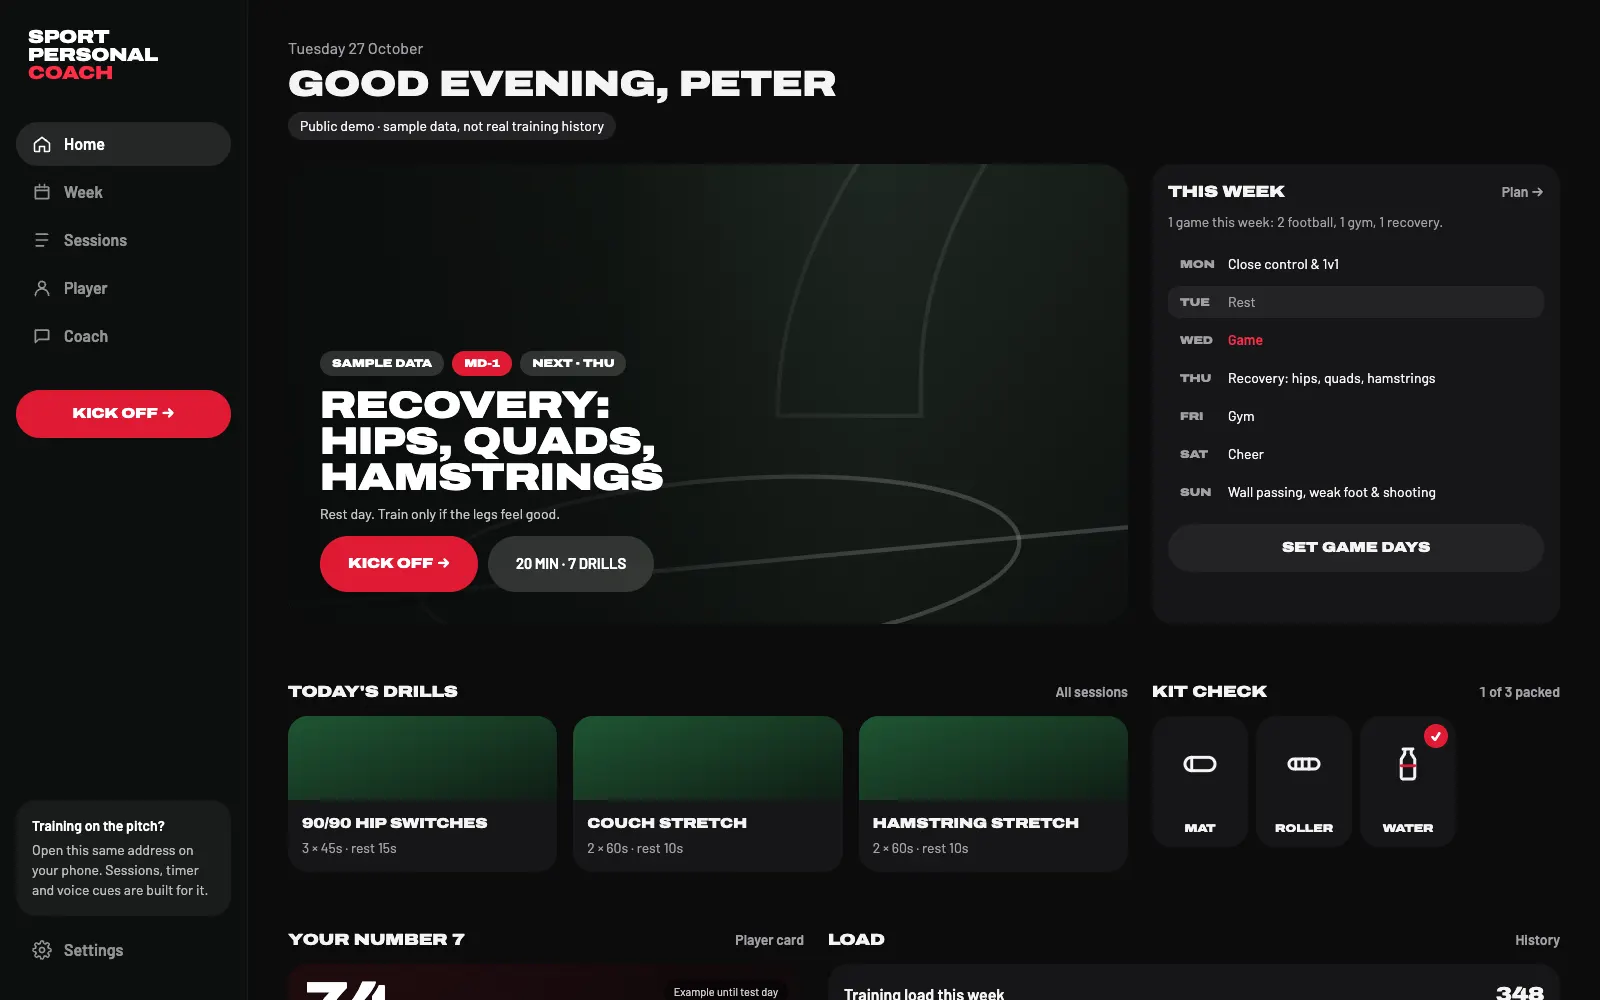
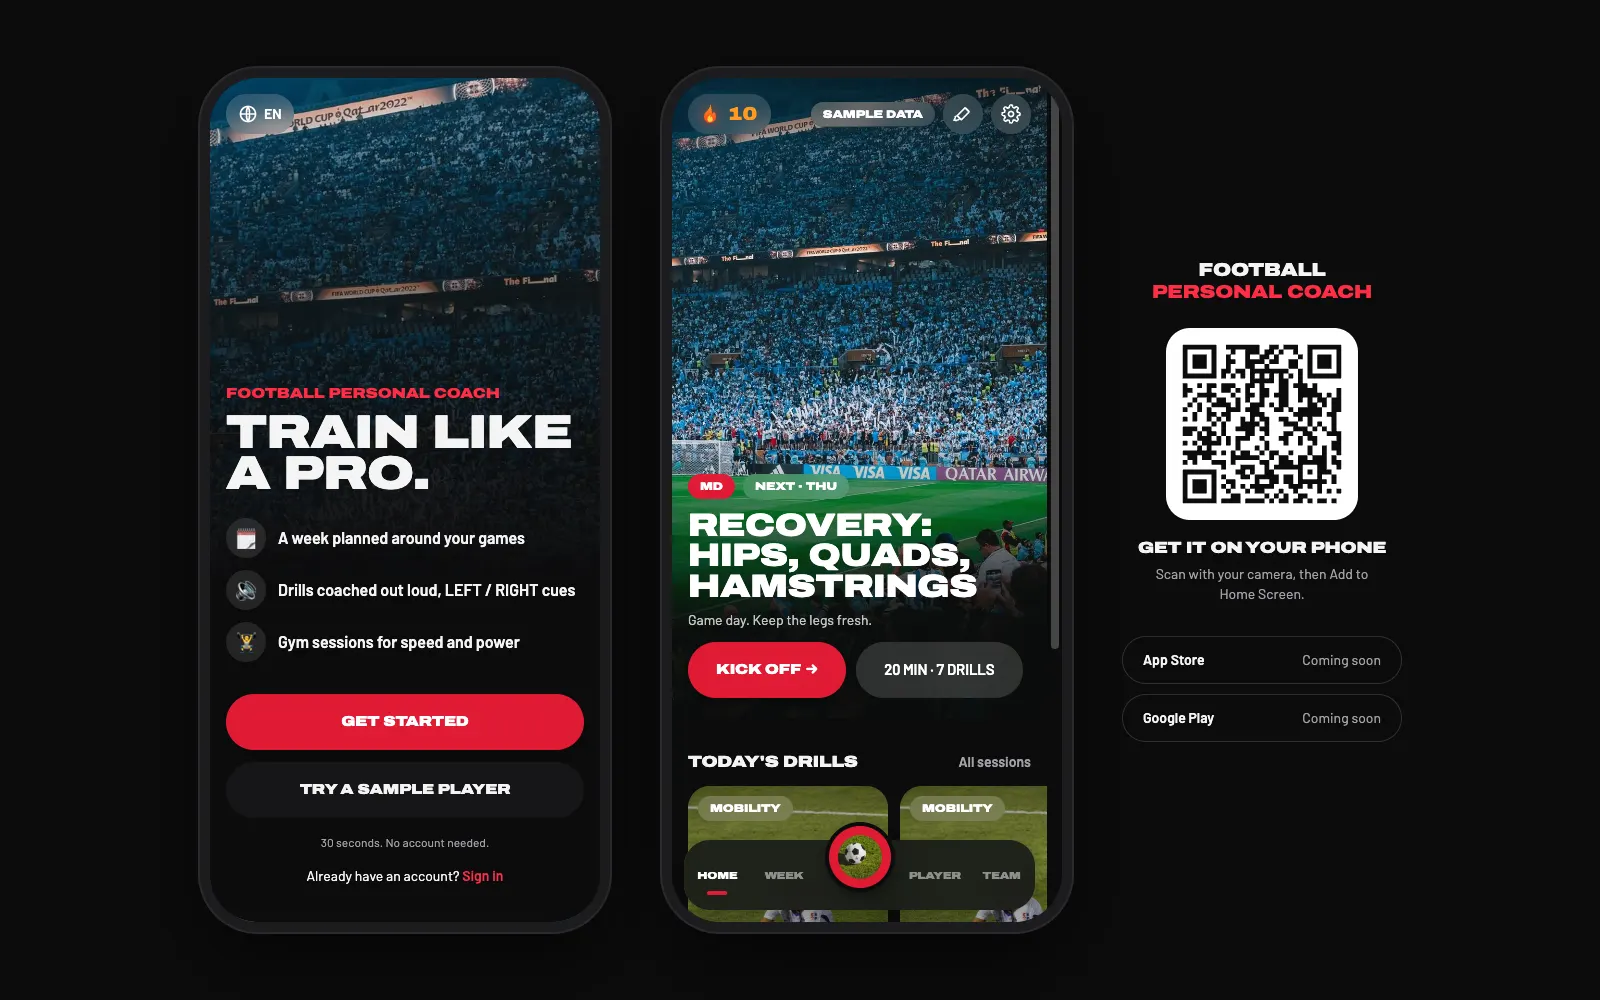
Rename to Soccer Personal Coach: new Cloudflare link, laptop and phone screenshots

diff --git a/src/content.ts b/src/content.ts
@@ -75,13 +75,13 @@ export const featured: Featured[] = [
     status: { kind: 'server', ping: 'https://bumpin-demo.onrender.com/api/health' },
   },
   {
-    name: 'Sport Personal Coach',
-    what: 'Plans my football week around game days and calls random reaction cues in drills',
+    name: 'Soccer Personal Coach',
+    what: 'Plans my soccer week around game days and calls LEFT/RIGHT reaction cues in drills',
     result: 'Solo build, live demo with sample data',
-    url: 'https://sport-coach-demo.duckdns.org',
-    phone: { src: '/img/coach-phone', alt: "Sport Personal Coach on a phone: today's recovery session over a night view of a stadium", width: 1000, height: 2000 },
+    url: 'https://football-personal-coach.ducphu1665.workers.dev/?invite=1',
+    phone: { src: '/img/coach-phone', alt: "Soccer Personal Coach on a phone: today's game-day recovery session with sample data", width: 1000, height: 2000 },
     repo: 'https://github.com/PeterT1665/Workout-Rag-Advisor',
-    shot: shot('coach', 'Sport Personal Coach home screen: the week planned around one game, with today\'s recovery session'),
+    shot: shot('coach', 'Soccer Personal Coach on a laptop: the sign-up screen, the sample player\'s game day, and a QR code to open it on a phone'),
     status: { kind: 'static' },
   },
   {
@@ -121,7 +121,7 @@ export type LibraryRow = { name: string; what: string; stack: string; note: stri
 
 export const library: LibraryRow[] = [
   { name: 'BumpIn', what: 'Festival rider and vendor CRM', stack: 'Python, FastAPI, React', note: '3rd overall, Best Track', url: 'https://bumpin-demo.onrender.com' },
-  { name: 'Sport Personal Coach', what: 'Football training plan built around game days', stack: 'React, TypeScript, FastAPI, PWA', note: 'Solo build, live demo', url: 'https://sport-coach-demo.duckdns.org' },
+  { name: 'Soccer Personal Coach', what: 'Soccer training plan built around game days', stack: 'React, TypeScript, FastAPI, PWA', note: 'Solo build, live demo', url: 'https://football-personal-coach.ducphu1665.workers.dev/?invite=1' },
   { name: 'Fold-A2', what: 'Poker bot and poker room', stack: 'Python', note: '10th of 41 teams', url: 'https://fold-a2-pokerroom.onrender.com' },
   { name: 'Voyager', what: 'Reed-Solomon image recovery', stack: 'JavaScript, Vite', note: 'Best Product, Codebrew', url: 'https://voyager-sepia-zeta.vercel.app' },
   { name: 'ndAI', what: 'Leak detector for AI prompts', stack: 'Python, ONNX, Chrome extension', note: '24-hour build', url: 'https://ndai-try.vercel.app/preview/' },
